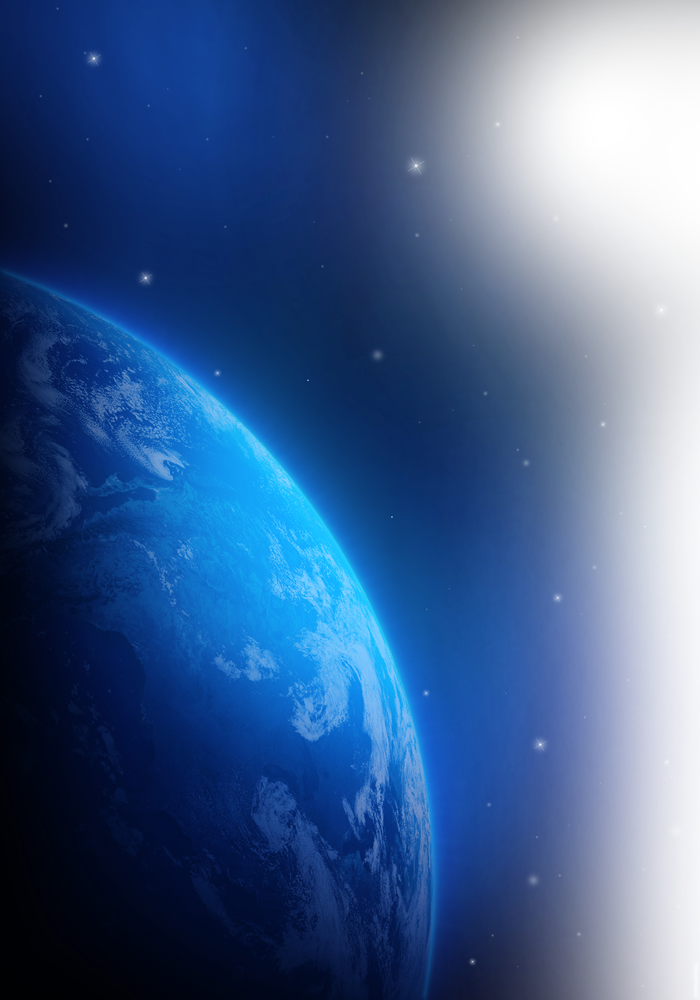
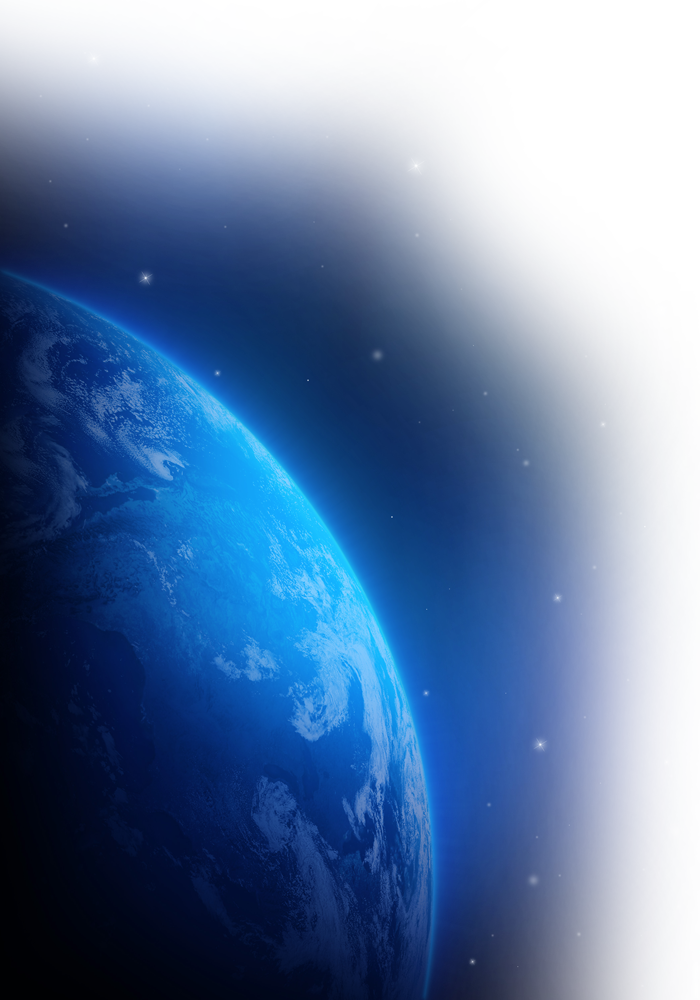
ROATE EARTH AND NEW IMAG

diff --git a/public/css/style.css b/public/css/style.css
@@ -297,7 +297,11 @@ h2 {
     transition:all 30s;
 }
 #earth.peace {
-    left:-500px;
+    /*left:-500px;*/
+    -webkit-transform: translate3d(-500px,100px,0) rotateZ(-2deg);
+    -moz-transform: translate3d(-500px,100px,0);
+    -o-transform: translate3d(-500px,100px,0);
+    transform: translate3d(-500px,100px,0);
 }
 
 #quintus_container {
